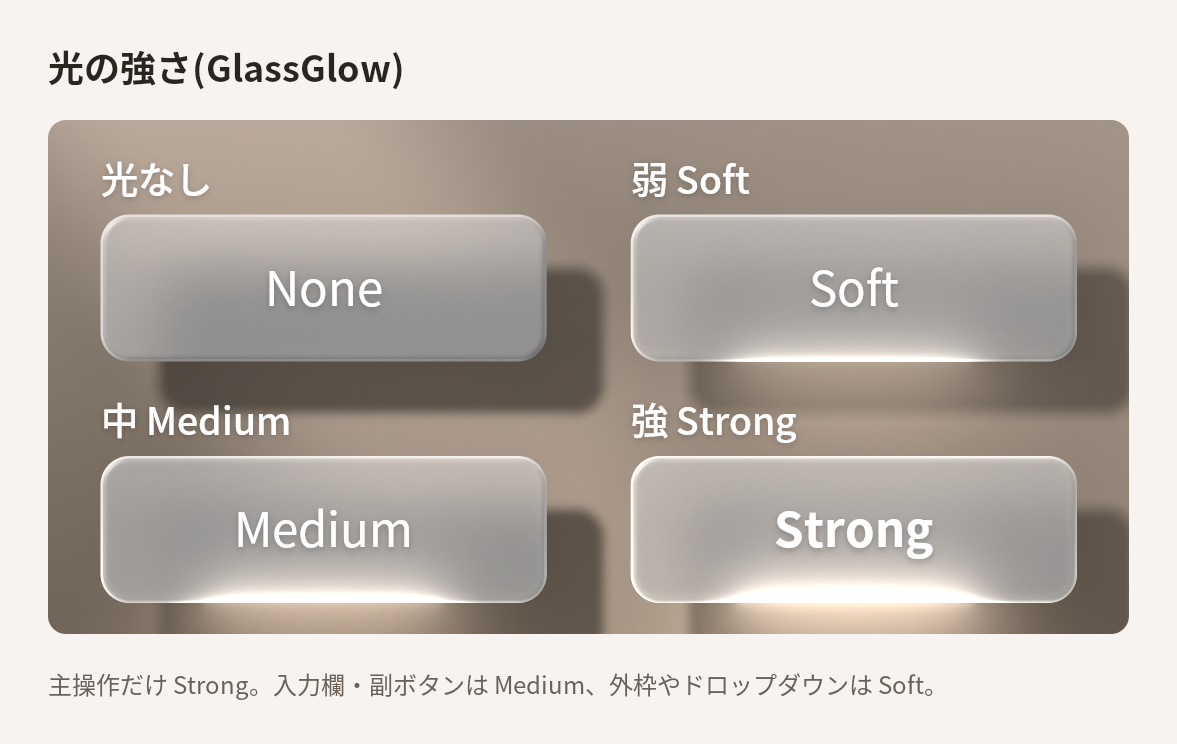
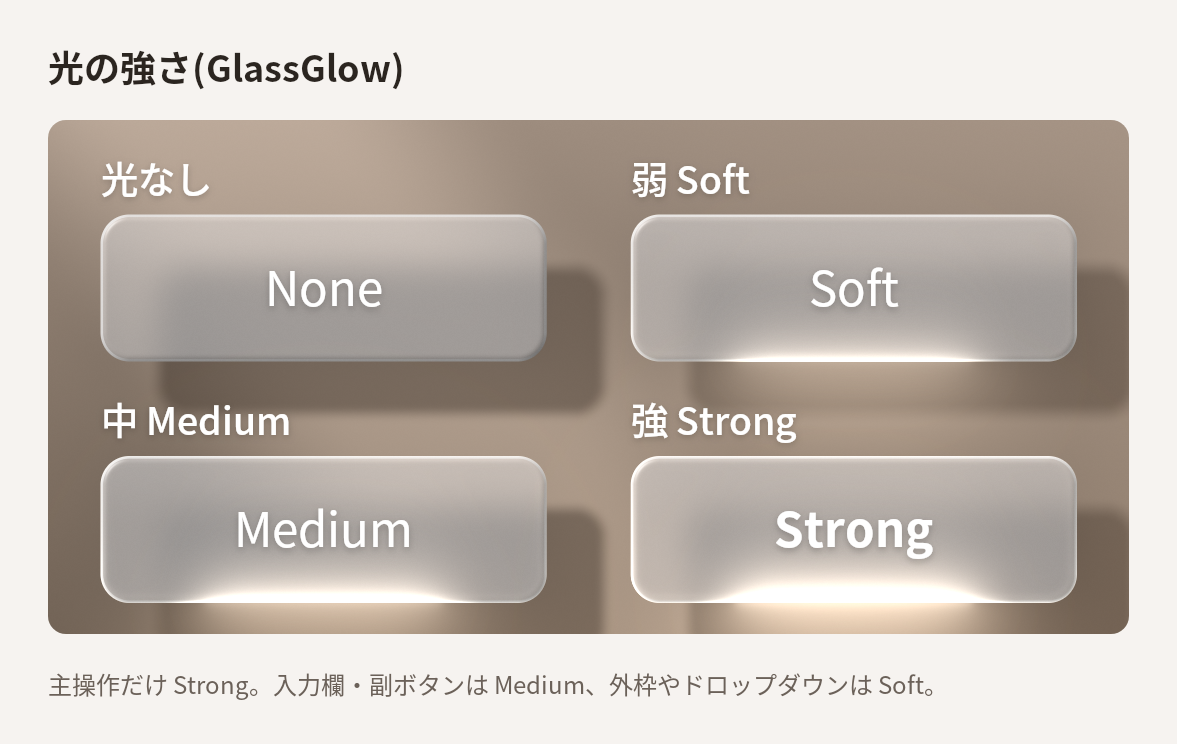
影を濃いベージュに・すりガラスのぼかしを弱く・傾きで光が動く機能を外す
- 壁の影: 環境光を壁の色に染め(部屋で跳ね返った光)、すりガラスが光を30%通すようにした。
  灰色・青みに見えていた影が、見本と同じ濃いベージュになる
- すりガラスのぼかし: 18dp → 10dp(見本は背後がうっすら透ける程度)
- 端末の傾き(重力センサー)で部屋の光の向きが動く機能を削除。光の向きは固定
- 登場の待ち時間をフレームの時計で数える。テストが浮き上がりの途中を撮ってしまい、
  一覧の名刺が壁に沈んで見えるスクショがあった(CI #22)
- 図の作成ツールの __pycache__ を管理対象から外す

Claude-Session: https://claude.ai/code/session_01MQNbRHqzubc8XfFUat4JWb

Changed region(s): [[0.1835, 0.371, 0.52, 0.5565], [0.4282, 0.6801, 0.52, 0.8656]]

diff --git a/app/src/main/java/com/example/businesscard/ui/glass/GlassMotion.kt b/app/src/main/java/com/example/businesscard/ui/glass/GlassMotion.kt
@@ -1,10 +1,6 @@
 package com.example.businesscard.ui.glass
 
 import android.content.Context
-import android.hardware.Sensor
-import android.hardware.SensorEvent
-import android.hardware.SensorEventListener
-import android.hardware.SensorManager
 import android.os.Build
 import android.provider.Settings
 import android.view.HapticFeedbackConstants
@@ -16,24 +12,18 @@ import androidx.compose.foundation.interaction.InteractionSource
 import androidx.compose.foundation.interaction.PressInteraction
 import androidx.compose.runtime.Composable
 import androidx.compose.runtime.LaunchedEffect
-import androidx.compose.runtime.MutableState
 import androidx.compose.runtime.Stable
-import androidx.compose.runtime.State
 import androidx.compose.runtime.getValue
 import androidx.compose.runtime.mutableStateOf
 import androidx.compose.runtime.remember
 import androidx.compose.runtime.setValue
 import androidx.compose.runtime.snapshotFlow
-import androidx.compose.runtime.staticCompositionLocalOf
 import androidx.compose.ui.geometry.Offset
-import androidx.compose.ui.platform.LocalContext
 import androidx.compose.ui.platform.LocalView
-import androidx.lifecycle.compose.LifecycleResumeEffect
 import com.example.businesscard.ui.theme.SoftGlassMotion
 import kotlinx.coroutines.Job
 import kotlinx.coroutines.flow.first
 import kotlinx.coroutines.launch
-import kotlin.math.abs
 
 /**
  * 触ったときの体の感覚(振動・音)。端末の「タッチ時の振動」「タッチ操作音」の設定に従う。
@@ -147,79 +137,9 @@ fun rememberGlassPress(interactionSource: InteractionSource, feedback: GlassFeed
     return press
 }
 
-/** 「アニメーションを削除」が設定されているか。登場と傾きの動きを出さないために使う。 */
+/** 「アニメーションを削除」が設定されているか。登場の動きを出さないために使う。 */
 internal fun Context.prefersReducedMotion(): Boolean =
     Settings.Global.getFloat(contentResolver, Settings.Global.ANIMATOR_DURATION_SCALE, 1f) == 0f
 
-/**
- * 端末の傾き(-1..1)。部屋の光の向きを少し動かして、影とつやを傾きに追従させる。
- * 描画のときに値を読むので、State のまま配る(傾くたびに画面を組み立て直さない)。
- */
-val LocalLightTilt = staticCompositionLocalOf<State<Offset>> { mutableStateOf(Offset.Zero) }
-
-/**
- * 重力センサーで端末の傾きを測る。画面を表示している間だけセンサーを使う。
- * 持ち方が変わっても光がずれたままにならないよう、基準の傾きはゆっくり今の持ち方へ追従する。
- */
-@Composable
-fun rememberLightTilt(): State<Offset> {
-    val context = LocalContext.current
-    val tilt = remember { mutableStateOf(Offset.Zero) }
-    val reduceMotion = remember(context) { context.prefersReducedMotion() }
-    if (reduceMotion) return tilt
-    LifecycleResumeEffect(context) {
-        val sensorManager = context.getSystemService(SensorManager::class.java)
-        val sensor = sensorManager?.getDefaultSensor(Sensor.TYPE_GRAVITY)
-            ?: sensorManager?.getDefaultSensor(Sensor.TYPE_ACCELEROMETER)
-        val listener = if (sensorManager != null && sensor != null) {
-            TiltListener(tilt).also { sensorManager.registerListener(it, sensor, SensorManager.SENSOR_DELAY_GAME) }
-        } else {
-            null
-        }
-        onPauseOrDispose {
-            if (listener != null) sensorManager?.unregisterListener(listener)
-        }
-    }
-    return tilt
-}
-
-private class TiltListener(private val out: MutableState<Offset>) : SensorEventListener {
-    private var baseX = Float.NaN
-    private var baseY = 0f
-    private var x = 0f
-    private var y = 0f
-
-    override fun onSensorChanged(event: SensorEvent) {
-        val gx = event.values[0] / SensorManager.GRAVITY_EARTH
-        val gy = event.values[1] / SensorManager.GRAVITY_EARTH
-        if (baseX.isNaN()) {
-            baseX = gx
-            baseY = gy
-        }
-        baseX += (gx - baseX) * BASELINE_FOLLOW
-        baseY += (gy - baseY) * BASELINE_FOLLOW
-        val tx = ((gx - baseX) / FULL_TILT).coerceIn(-1f, 1f)
-        val ty = ((gy - baseY) / FULL_TILT).coerceIn(-1f, 1f)
-        x += (tx - x) * SMOOTHING
-        y += (ty - y) * SMOOTHING
-        val current = out.value
-        if (abs(x - current.x) > MIN_CHANGE || abs(y - current.y) > MIN_CHANGE) out.value = Offset(x, y)
-    }
-
-    override fun onAccuracyChanged(sensor: Sensor?, accuracy: Int) = Unit
-
-    private companion object {
-        /** これだけ傾けると光の動きが最大になる(重力の割合。約17度) */
-        const val FULL_TILT = 0.3f
-        const val BASELINE_FOLLOW = 0.008f
-        const val SMOOTHING = 0.18f
-        const val MIN_CHANGE = 0.008f
-    }
-}
-
-/** 部屋のキーライトの向き(シェーダーの lightDir)。ふだんは左上・手前。傾きで少し動く。 */
-internal fun lightDirection(tilt: Offset): FloatArray = floatArrayOf(
-    -0.55f - SoftGlassMotion.TILT_LIGHT * tilt.x,
-    -0.5f + SoftGlassMotion.TILT_LIGHT * tilt.y,
-    0.6f,
-)
+/** 部屋のキーライトの向き(シェーダーの lightDir)。左上・手前から。 */
+internal val LIGHT_DIRECTION = floatArrayOf(-0.55f, -0.5f, 0.6f)

diff --git a/app/src/main/java/com/example/businesscard/ui/glass/GlassRendering.kt b/app/src/main/java/com/example/businesscard/ui/glass/GlassRendering.kt
@@ -17,6 +17,7 @@ import androidx.compose.runtime.remember
 import androidx.compose.runtime.rememberUpdatedState
 import androidx.compose.runtime.setValue
 import androidx.compose.runtime.snapshotFlow
+import androidx.compose.runtime.withFrameMillis
 import androidx.compose.ui.Modifier
 import androidx.compose.ui.draw.drawBehind
 import androidx.compose.ui.geometry.Offset
@@ -49,7 +50,6 @@ import androidx.compose.ui.unit.LayoutDirection
 import androidx.compose.ui.unit.dp
 import androidx.compose.ui.unit.toSize
 import com.example.businesscard.ui.theme.SoftGlassMotion
-import kotlinx.coroutines.delay
 import kotlinx.coroutines.flow.filterNotNull
 import kotlinx.coroutines.flow.first
 import kotlin.math.max
@@ -79,7 +79,6 @@ internal fun GlassSceneHost(
     val scene = remember { GlassScene() }
     val backdrop = rememberGraphicsLayer()
     scene.backdrop = backdrop
-    val tilt = LocalLightTilt.current
     val shader = remember { RuntimeShader(GlassShaders.WALL) }
     val rects = remember { FloatArray(MAX_ELEMENTS * 4) }
     val props = remember { FloatArray(MAX_ELEMENTS * 4) }
@@ -115,7 +114,7 @@ internal fun GlassSceneHost(
                         extra[n * 4] = element.opacity
                         n++
                     }
-                    val light = lightDirection(tilt.value)
+                    val light = LIGHT_DIRECTION
                     shader.setFloatUniform("size", w, h)
                     shader.setFloatUniform("dp", density)
                     shader.setIntUniform("count", n)
@@ -176,7 +175,6 @@ internal fun Modifier.floatingGlass(
     val scene = LocalGlassScene.current
         ?: return insetGlass(shape, tint, emit, emitTop, rim, rimWidth, lightColor, press)
     val hdr = LocalGlowHeadroom.current
-    val tilt = LocalLightTilt.current
     val localDensity = LocalDensity.current
     val layoutDirection = LocalLayoutDirection.current
     val context = LocalContext.current
@@ -193,7 +191,9 @@ internal fun Modifier.floatingGlass(
         if (lift.value < 1f) {
             val y = snapshotFlow { positionInRoot }.filterNotNull().first().y - scene.origin.y
             val fraction = (y / max(scene.size.height, 1f)).coerceIn(0f, 1f)
-            delay((fraction * SoftGlassMotion.ENTRANCE_STAGGER_MILLIS).toLong())
+            // 待つのも画面の描き替え(フレーム)の時計で数える。テストが時計を進めて撮るとき、
+            // 待っている間も「動きの途中」と分かり、浮き上がりきるまで待ってから撮れる
+            awaitFrameMillis((fraction * SoftGlassMotion.ENTRANCE_STAGGER_MILLIS).toLong())
             lift.animateTo(1f, SoftGlassMotion.entranceSpring)
         }
     }
@@ -264,7 +264,7 @@ internal fun Modifier.floatingGlass(
             val w = size.width
             val h = size.height
             val radius = shape.cornerRadius(size, layoutDirection, this)
-            val light = lightDirection(tilt.value)
+            val light = LIGHT_DIRECTION
 
             // 自分の後ろの壁(と周り)を写し取る
             layer.record(IntSize(w.roundToInt() + 2 * m, h.roundToInt() + 2 * m)) {
@@ -306,14 +306,13 @@ internal fun Modifier.insetGlass(
     press: GlassPress? = null,
 ): Modifier {
     val hdr = LocalGlowHeadroom.current
-    val tilt = LocalLightTilt.current
     val tileShader = remember { RuntimeShader(GlassShaders.TILE) }
     val lightShader = remember { RuntimeShader(GlassShaders.LIGHT) }
     val depth = press?.depth?.value ?: 0f
     val emitNow = emit + (SoftGlassMotion.PRESSED_GLOW - emit) * depth.coerceIn(0f, 1f) * if (emit > 0f) 1f else 0f
     return drawBehind {
         val radius = shape.cornerRadius(size, layoutDirection, this)
-        val light = lightDirection(tilt.value)
+        val light = LIGHT_DIRECTION
         tileShader.setFloatUniform("size", size.width, size.height)
         tileShader.setFloatUniform("radius", radius)
         tileShader.setFloatUniform("dp", density)
@@ -346,11 +345,10 @@ internal fun Modifier.touchLight(shape: Shape, lightColor: Color, press: GlassPr
 @Composable
 internal fun Modifier.glowingBall(top: Color, bottom: Color, lightColor: Color, intensity: Float = 1f): Modifier {
     val hdr = LocalGlowHeadroom.current
-    val tilt = LocalLightTilt.current
     val body = remember { RuntimeShader(GlassShaders.BALL) }
     val halo = remember { RuntimeShader(GlassShaders.BALL) }
     return drawBehind {
-        val light = lightDirection(tilt.value)
+        val light = LIGHT_DIRECTION
         fun RuntimeShader.setUp(mode: Float) {
             setFloatUniform("size", size.width, size.height)
             setFloatUniform("dp", density)
@@ -413,3 +411,12 @@ private fun Shape.cornerRadius(size: Size, layoutDirection: LayoutDirection, den
         is Outline.Rounded -> outline.roundRect.topLeftCornerRadius.x
         else -> 0f
     }
+
+/** フレームの時計で [millis] だけ待つ(コルーチンの delay は実時間なので、テストの時計と合わない)。 */
+private suspend fun awaitFrameMillis(millis: Long) {
+    if (millis <= 0L) return
+    val start = withFrameMillis { it }
+    while (withFrameMillis { it } - start < millis) {
+        // 次のフレームまで待つ
+    }
+}

diff --git a/app/src/main/java/com/example/businesscard/ui/glass/GlassShaders.kt b/app/src/main/java/com/example/businesscard/ui/glass/GlassShaders.kt
@@ -64,8 +64,7 @@ float3 toDisplay(float3 c) {
     return float3(fromLinearSrgb(half3(c)));
 }
 
-// 部屋のキーライトの向き(lightDir)は uniform で受け取る。ふだんは左上・手前から差し(影は右下へ落ちる)、
-// 端末を傾けると少し動く
+// 部屋のキーライトの向き(lightDir)は uniform で受け取る。左上・手前から差す(影は右下へ落ちる)
 """
 
     /**
@@ -88,7 +87,10 @@ layout(color) uniform half4 albedoBottom;
 layout(color) uniform half4 lightColor;
 uniform float3 lightDir;
 
-const float GLASS_T = 0.08;
+// すりガラスが光を通す割合。すりガラスは光をかなり通すので、影は真っ黒にならない
+const float GLASS_T = 0.3;
+// 部屋の中で跳ね返ってくる光(環境光)が、壁の色にどれだけ染まっているか
+const float BOUNCE = 0.6;
 const float EMIT_GAIN = 9.0;
 
 // 線光源(部品の光る辺)が壁の点 xy を照らす量。光源の上を13点で数値積分する
@@ -172,7 +174,11 @@ half4 main(float2 xy) {
     float ambient = 0.38 * (1.0 - 0.55 * corner) * ao;
     float key = 0.62 * (1.0 - 0.45 * corner) * keyVis;
     float sun = 0.45 * beam * sunVis;
-    float3 col = albedo * (float3(ambient + key + sun) + toLin(lightColor) * emitted);
+    // 環境光はベージュの壁や床で跳ね返ってきた光なので、壁の色に染まっている。
+    // 影の中はこの光だけで照らされるので、影は灰色や青みではなく、壁より濃いベージュになる
+    float3 bounce = albedo / max(dot(albedo, float3(0.2126, 0.7152, 0.0722)), 1e-4);
+    float3 ambientColor = mix(float3(1.0), bounce, BOUNCE);
+    float3 col = albedo * (ambientColor * ambient + float3(key + sun) + toLin(lightColor) * emitted);
     float3 outc = toDisplay(toneMap(col)) + (hash12(xy) - 0.5) / 170.0;
     return half4(half3(outc), 1.0);
 }

diff --git a/app/src/main/java/com/example/businesscard/MainActivity.kt b/app/src/main/java/com/example/businesscard/MainActivity.kt
@@ -8,9 +8,7 @@ import androidx.activity.compose.setContent
 import androidx.activity.enableEdgeToEdge
 import androidx.compose.runtime.CompositionLocalProvider
 import com.example.businesscard.ui.glass.LocalGlowHeadroom
-import com.example.businesscard.ui.glass.LocalLightTilt
 import com.example.businesscard.ui.glass.rememberGlowHeadroom
-import com.example.businesscard.ui.glass.rememberLightTilt
 import com.example.businesscard.ui.navigation.AppNavHost
 import com.example.businesscard.ui.theme.BusinessCardTheme
 import dagger.hilt.android.AndroidEntryPoint
@@ -25,10 +23,9 @@ class MainActivity : ComponentActivity() {
             navigationBarStyle = SystemBarStyle.dark(Color.TRANSPARENT),
         )
         setContent {
-            // HDR対応の画面では、光源を白より明るく光らせる。端末を傾けると部屋の光の向きが少し動く
+            // HDR対応の画面では、光源を白より明るく光らせる
             CompositionLocalProvider(
                 LocalGlowHeadroom provides rememberGlowHeadroom(this),
-                LocalLightTilt provides rememberLightTilt(),
             ) {
                 BusinessCardTheme {
                     AppNavHost()

diff --git a/app/src/main/java/com/example/businesscard/ui/theme/SoftGlassShapes.kt b/app/src/main/java/com/example/businesscard/ui/theme/SoftGlassShapes.kt
@@ -48,8 +48,11 @@ object SoftGlassLight {
      */
     val elevation = 24.dp
 
-    /** すりガラスが背後をぼかす強さ(RenderEffect のぼかし半径) */
-    val frostBlur = 18.dp
+    /**
+     * すりガラスが背後をぼかす強さ(RenderEffect のぼかし半径)。
+     * 見本は背後がうっすら透ける程度なので弱め(18dp では曇りすぎた)
+     */
+    val frostBlur = 10.dp
 }
 
 /** 余白トークン(4dpグリッド)。 */

diff --git a/app/src/main/java/com/example/businesscard/ui/theme/Motion.kt b/app/src/main/java/com/example/businesscard/ui/theme/Motion.kt
@@ -52,7 +52,4 @@ object SoftGlassMotion {
 
     /** 光源の強さ・浮く高さが変わるときの時間(フォーカスやトグルで点く・消える) */
     const val GLOW_CHANGE_MILLIS = 220
-
-    /** 端末の傾きで光の向きが動く量 */
-    const val TILT_LIGHT = 0.35f
 }

diff --git a/docs/edgelit/tools/glassrender.py b/docs/edgelit/tools/glassrender.py
@@ -8,6 +8,8 @@ CS = skia.ColorSpace.MakeSRGB()
 SRC = load()
 EFFECTS = {k: skia.RuntimeEffect.MakeForShader(v) for k, v in SRC.items()}
 LIGHT_DIR = [-0.55, -0.5, 0.6]
+# すりガラスのぼかし(dp)。アプリの SoftGlassLight.frostBlur と同じ値にする
+FROST = 10
 
 GLASS = 0x40DCE1E6; PRESSED = 0x4DFFFFFF; SELECTED = 0x52FFFFFF; TILE = 0x5CFFFFFF
 BORDER = 0x8CFFFFFF; FOCUS = 0xF2FFFFFF; GLOW = 0xFFFFFCF6
@@ -103,7 +105,7 @@ class Scene:
         oc = out.getCanvas()
         oc.drawImage(wall_img, -wm, -wm)
         gm = int(round(40 * d))
-        sigma = 0.57735 * 18 * d + 0.5
+        sigma = 0.57735 * FROST * d + 0.5
         for e in self.floating:
             if 'frost' not in stages:
                 break
